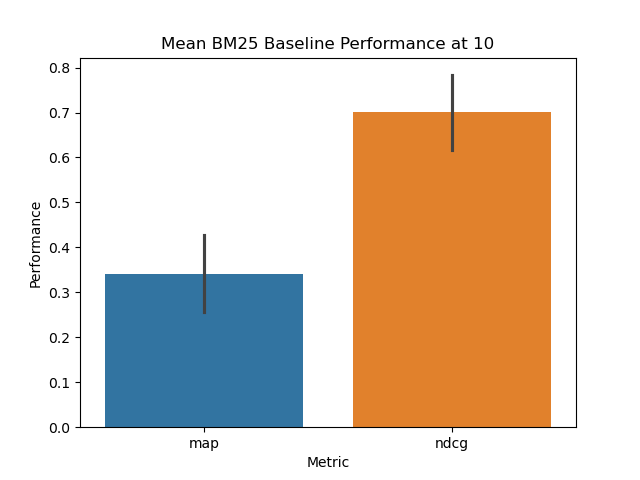
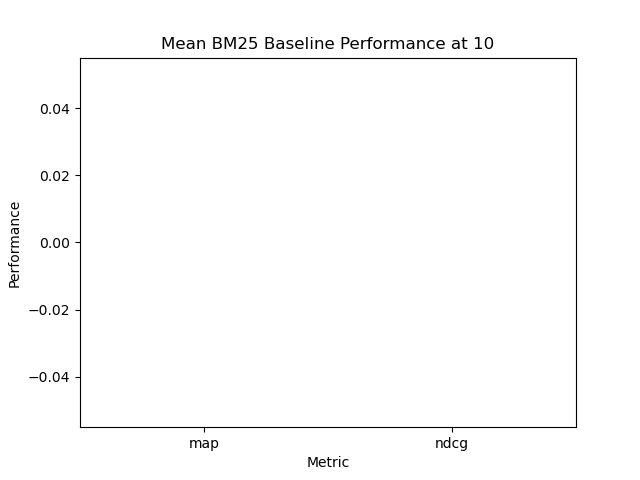
finishing up proposal

diff --git a/code/relevance.py b/code/relevance.py
@@ -7,6 +7,7 @@ from ranker import Ranker, BM25
 import pickle
 import os
 from document_preprocessor import RegexTokenizer
+from random_ranker import RandomRanker
 
 def map_score(search_result_relevances: list[int], cut_off=10) -> float:
     """
@@ -178,7 +179,7 @@ def reformat_relevance_data(df:DataFrame, save_path: str) -> None:
     df['rel'] = df['rel'].astype(int)
     df['docid'] = df['docid'].astype(int)
 
-    df.to_csv(save_path)
+    df.to_csv(save_path, index = False)
 
 
 def main():
@@ -196,10 +197,11 @@ def main():
     df = pd.read_csv("../eval/relevance_scores.csv")
     reformat_relevance_data(df, "../eval/reformated_relevance_scores.csv")
     queries_to_judgements = map_queries_to_judgements("../eval/formated_relevance_scores.csv")
-    bm25 = BM25(index)
     document_preprocessor = RegexTokenizer("\\w+")
-    ranker = Ranker(index, document_preprocessor, stopwords, bm25)
-    performance = run_relevance_tests(queries_to_judgements, "../eval/baseline_performance.csv", ranker)
+    # bm25 = BM25(index)
+    # ranker = Ranker(index, document_preprocessor, stopwords, bm25)
+    ranker = RandomRanker(index)
+    performance = run_relevance_tests(queries_to_judgements, "../eval/random_baseline_performance.csv", ranker)
 
 
 if __name__ == '__main__':
